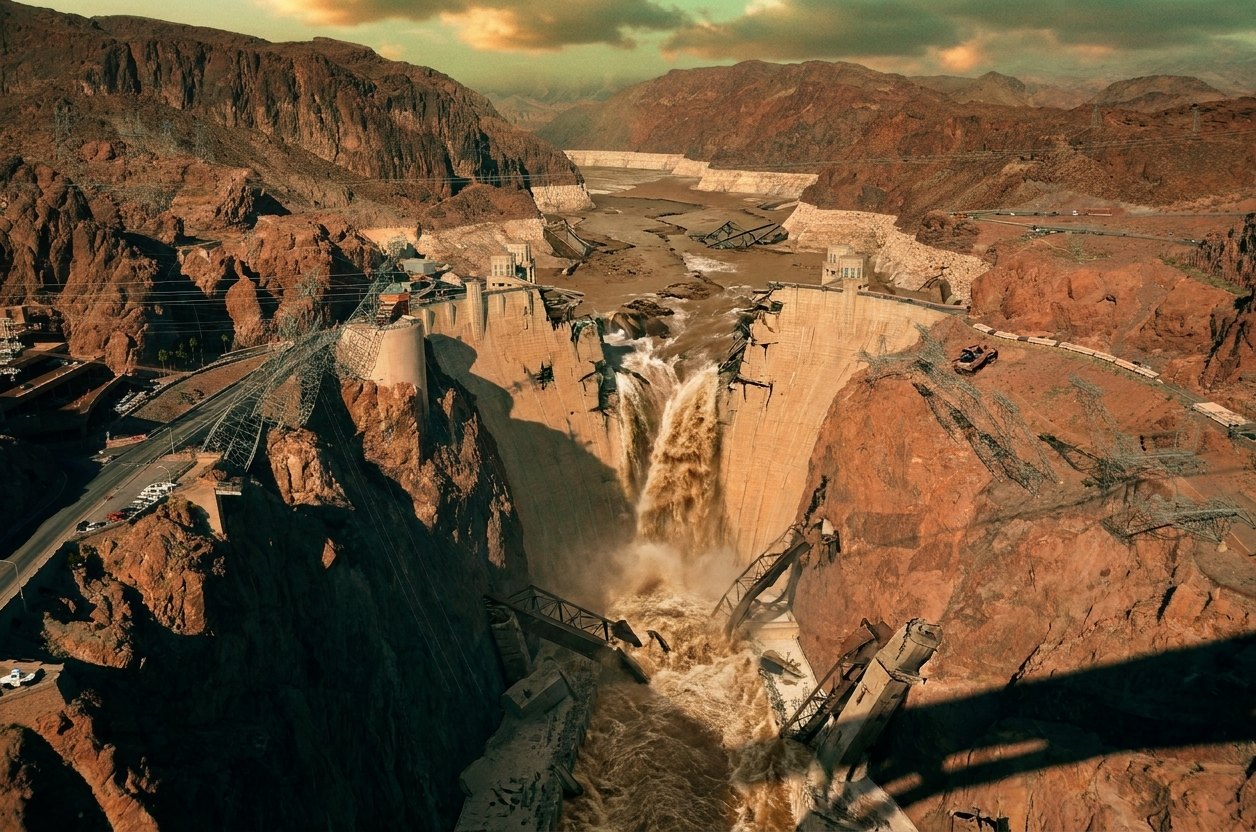
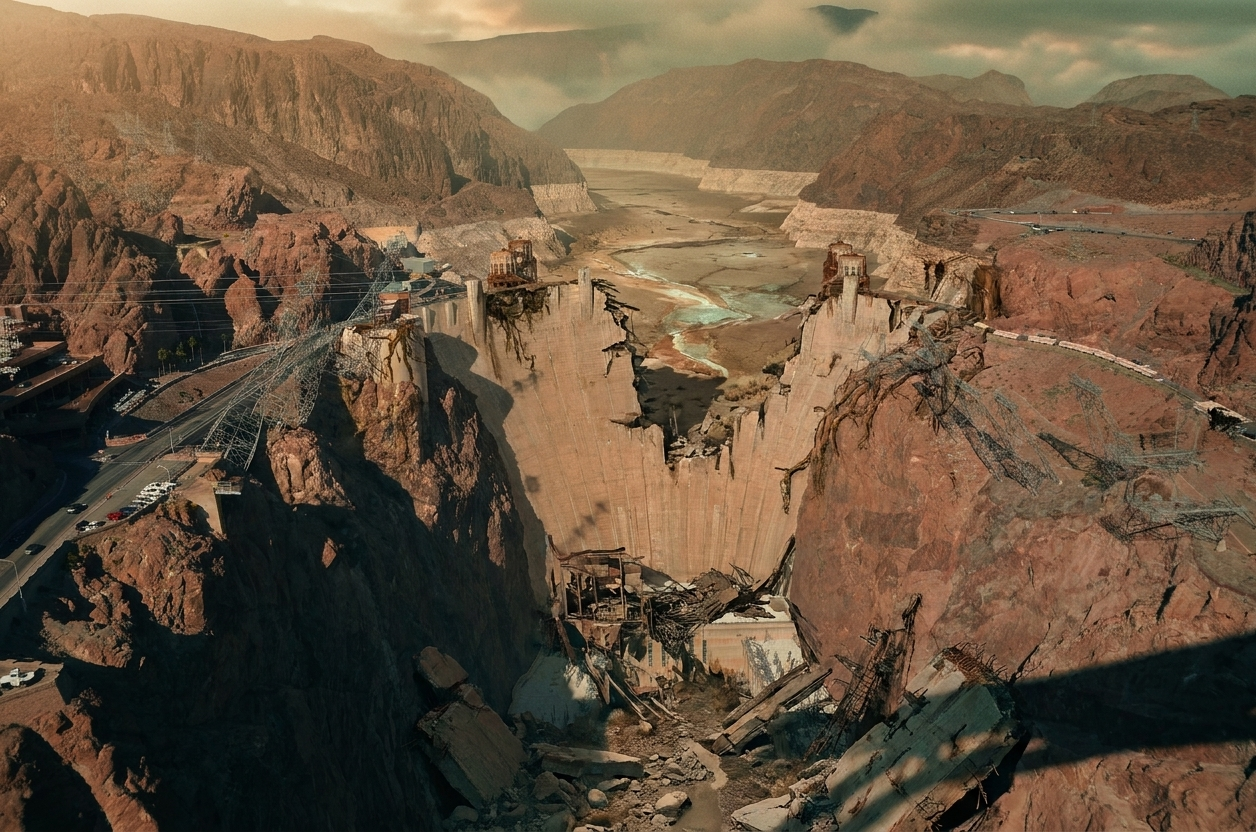
Render prompt for all buildings: copy the photo face by face (viewpoint, cladding, openings, base, surroundings) and keep the 200-years-later feel (nothing freshly burning, no fresh flooding); Hoover Dam re-rendered dry

diff --git a/supabase/functions/_shared/renderPrompt.ts b/supabase/functions/_shared/renderPrompt.ts
@@ -15,7 +15,7 @@ const SPECIFIC: Record<string, string> = {
   Q429371: "Keep the Devon Energy Center in Oklahoma City recognizable: a tall, sleek, angular glass skyscraper of blue-grey glass with a long blade-like fin and a faceted crown at the top, standing above the lower downtown buildings. It has been struck and is badly broken: the crown and fin have sheared off and hang crumpled, the glass is blown out of the upper floors leaving bare steel and slabs, scorch marks run up the sides, the tower leans slightly, but the angular blue glass silhouette is still clearly the same tower.",
   Q4255374: "Keep the Lakhta Center in Saint Petersburg recognizable: an extremely tall, needle-like glass skyscraper that tapers to a sharp point, twisting slightly as it rises, with a cluster of low sweeping angular wing buildings at its base beside the gulf. It has been struck and is badly broken: the upper part of the needle has bent and snapped, the glass skin is blown out and peeling to show the steel core, the sweeping wing buildings at the base are crushed and burning, but the tapering twisted needle silhouette is still clearly the same tower.",
   Q48435: "Keep the Sagrada Familia in Barcelona recognizable: a vast Gothic-organic basilica of pale honey-colored stone whose eighteen slender spires rise like fused stalagmites, the tallest central tower topped with a cross, the facade covered in carved figures and lace-like openwork, with construction cranes beside it. It has been struck and is badly broken: several of the thin spires have snapped and lie on the ground, the carved facade is scorched and peeling, the stone is cracked and overgrown with vines, the cranes are twisted wrecks, but the cluster of tall tapering spires is still clearly the same basilica.",
-  Q172822: "Keep the Hoover Dam recognizable as the same dam in the same canyon: the curved concrete arch wall wedged between the red-brown rock walls, the row of intake towers along its crest, the powerhouse at its foot, the road and bridge over the canyon. It has been struck and is almost completely destroyed: the central half of the curved wall has been blown out and has collapsed, leaving a huge ragged gap with the broken stumps of the arch still clinging to each canyon wall, the water has burst through in a violent brown flood roaring down the canyon and washing away the powerhouse, the intake towers are toppled and lying in the torrent, huge chunks of concrete and twisted steel litter the canyon floor and the exposed riverbed, the lake behind has drained to a muddy basin, power pylons lie crumpled, and every broken piece rests on the rock, the riverbed or in the water.",
+  Q172822: "Keep the Hoover Dam recognizable as the same dam in the same canyon, copying the photograph exactly: the curved concrete arch wall wedged between the red-brown rock walls, the row of intake towers along its crest, the powerhouse at its foot, the road and bridge over the canyon. It was struck and almost completely destroyed two hundred years ago, and the lake behind it has been gone for centuries: the central half of the curved wall has collapsed leaving a huge ragged gap, the broken stumps of the arch still clinging to each canyon wall, the intake towers toppled and rusted, the powerhouse a gutted ruin, huge chunks of concrete and twisted steel strewn on the dry, cracked canyon floor, power pylons crumpled and rusting. There is no water at all: the reservoir is an empty dry basin of cracked pale mud and bathtub-ring mineral stains with dead scrub, and the river bed below the dam is dry rocks, gravel and dust. Every broken piece rests on the rock or the dry riverbed.",
   Q271466: "Keep Hallgrímskirkja in Reykjavík recognizable: a tall white concrete Lutheran church whose stepped, flaring facade rises like basalt columns or a rocket to a slim central bell tower with a clock and a cross, low wings spreading to each side, a bronze statue of Leif Erikson in front. It has been struck and is badly broken: the upper tower has snapped and lies in pieces on the ground, the concrete columns of the facade are cracked and stained, the side wings are partly collapsed, but the stepped white facade with its central tower stump is still clearly the same church.",
   Q1122206: "Keep the Salt Lake Temple recognizable: a grand temple of pale grey granite with six tall spires, three at the east end (the tallest in the middle topped with a golden angel statue) and three lower at the west end, castle-like buttressed walls and tall arched windows, with the plaza and trees around. It has been struck and is badly broken: several spires have snapped and lie on the ground, the angel statue has fallen, the granite is scorched and cracked, windows are blown out, but the cluster of tall pointed spires is still clearly the same temple.",
   Q893204: "Keep the BHP building (Brookfield Place, 125 St Georges Terrace) in Perth recognizable: a tall, slim office tower of dark blue reflective glass framed by a grey steel diagonal-braced lattice running up its corner edges, with an open steel frame crown on top that once carried the company sign, rising over a low podium and the neighbouring city towers. It has been struck and is badly broken: much of the blue glass has blown out leaving the bare floors, the diagonal steel bracing is bent and torn, the open crown frame is twisted and half collapsed, glass and steel debris lie around the base, but the tall blue glass tower with its braced edges and open crown is still clearly the same building.",
@@ -116,5 +116,5 @@ function vaultDoor(number: number, ground = false): string {
 
 export function renderPrompt(name: string, entityId?: string, flooded = false, irradiated = false, vaultNumber?: number, category?: string, strict = false): string {
   const damage = ((entityId && SPECIFIC[entityId]) || NAMED.find(([re]) => re.test(name))?.[1] || generic(name)) + (vaultNumber ? vaultDoor(vaultNumber, hasNoBuilding(name, category)) : '') + (irradiated ? ` It stands in a radiation zone: the sky is a sickly green-yellow haze of radioactive clouds with glowing green fallout drifting through the scene, and acid rain falls in streaks, leaving the ruins wet, stained and corroded.` : '') + (flooded ? ` The area is also partly flooded since the bombs fell: dark standing water fills the streets and the lower floors, the ruins rise out of it, and it shows muddy reflections of the broken buildings and the sky.` : '');
-  return `Re-render this photograph as a scene from a modern open-world post-apocalyptic video game, in the visual style of Fallout 4 gameplay: the same landmark${name ? ` (${name})` : ''}, from the same angle and framing, still clearly recognizable and in the same place, but two hundred years after a nuclear war, and DESTROYED. KEEP THE REAL BUILDING: the destroyed scene is this very building from the photograph, not a different one. Its footprint and overall shape, roofline, number of floors, towers or wings, materials, colors, window pattern, entrance and every distinctive feature must stay recognizable, with the damage applied to them (walls breached, floors collapsed, the roof fallen in). The description of the destruction below says how THIS building is wrecked; it never replaces it with a generic ruined building of that type (a hospital, a school, a church and so on). Before you finish, compare your picture with the photograph: if the main building no longer matches it, redraw it so that it does.${strict ? ' THE LAST ATTEMPT DREW A GENERIC BUILDING INSTEAD OF THIS ONE. This time copy the photograph’s building exactly (its outline, proportions, facade and layout) and add only the destruction to it.' : ''} The destruction must be dramatic and obvious, not just rust or dirt: ${damage} The rest of the scene is ruined too: fallen debris and heavy rubble (gravity applies: every fallen piece of a building lies on the ground or rests on other wreckage, and nothing hangs or floats in the air unsupported), broken and burnt buildings, cracked ground with dead weeds and scrub, abandoned rusted cars, patches of vines. A hazy dusty sky in sickly orange-green with heavy clouds and a low sun, soft volumetric light, warm highlights and teal shadows, slightly desaturated colors, painterly realistic game-engine look, subtle film grain. Remove all modern people, boats, flags, cranes and signs. No text, no logos, no UI.`;
+  return `Re-render this photograph as a scene from a modern open-world post-apocalyptic video game, in the visual style of Fallout 4 gameplay: the same landmark${name ? ` (${name})` : ''}, from the same angle and framing, still clearly recognizable and in the same place, but two hundred years after a nuclear war, and DESTROYED. KEEP THE REAL BUILDING: the destroyed scene is this very building from the photograph, not a different one. Its footprint and overall shape, roofline, number of floors, towers or wings, materials, colors, window pattern, entrance and every distinctive feature must stay recognizable, with the damage applied to them (walls breached, floors collapsed, the roof fallen in). The description of the destruction below says how THIS building is wrecked; it never replaces it with a generic ruined building of that type (a hospital, a school, a church and so on). Copy the photograph face by face: keep the same viewpoint and corner, the exact cladding and window grid of each wall, the balconies and bands, the position and size of every opening or cut-out, the ground floor and its columns, the neighbouring buildings, trees and mountains behind; the building keeps its exact shape and only the damage is added on top (glass fallen from the facade to show the bare floors and frame, cladding cracked and hanging, scorch marks streaking the walls). Before you finish, compare your picture with the photograph: if the main building no longer matches it, redraw it so that it does.${strict ? ' THE LAST ATTEMPT DREW A GENERIC BUILDING INSTEAD OF THIS ONE. This time copy the photograph’s building exactly (its outline, proportions, facade and layout) and add only the destruction to it.' : ''} Two hundred years have passed since the bombs, so everything is long settled and weathered: nothing is freshly burning, any water that once poured out or flooded is long gone and the ground is dry, cracked and overgrown. The destruction must be dramatic and obvious, not just rust or dirt: ${damage} The rest of the scene is ruined too: fallen debris and heavy rubble (gravity applies: every fallen piece of a building lies on the ground or rests on other wreckage, and nothing hangs or floats in the air unsupported), broken and burnt buildings, cracked ground with dead weeds and scrub, abandoned rusted cars, patches of vines. A hazy dusty sky in sickly orange-green with heavy clouds and a low sun, soft volumetric light, warm highlights and teal shadows, slightly desaturated colors, painterly realistic game-engine look, subtle film grain. Remove all modern people, boats, flags, cranes and signs. No text, no logos, no UI.`;
 }

diff --git a/src/lib/renders.ts b/src/lib/renders.ts
@@ -42,7 +42,7 @@ export const FREE_RENDERS: Record<string, FreeRender> = {
 };
 
 /** A render that was made again keeps its file name, and browsers keep images for hours: bumping its number here makes everyone fetch the new one. */
-const REVISIONS: Record<string, number> = { Q30892864: 2, Q80290: 1, Q172822: 1, Q6062105: 1 };
+const REVISIONS: Record<string, number> = { Q30892864: 2, Q80290: 1, Q172822: 2, Q6062105: 1 };
 
 /** The free render for a place on the map, by its id ("wd:Q243"), or undefined. */
 export function freeRenderFor(spotId: string): (FreeRender & { url: string; before: string }) | undefined {
